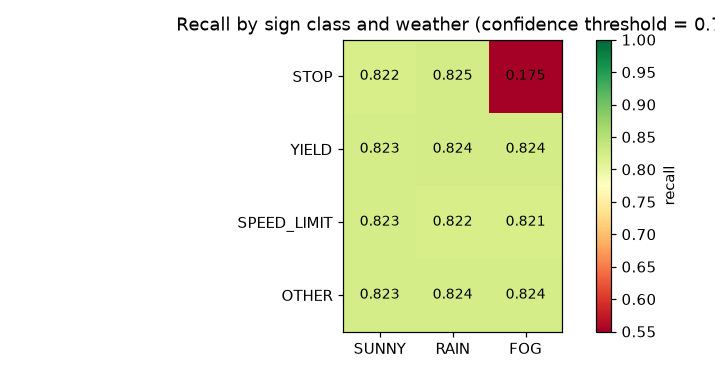
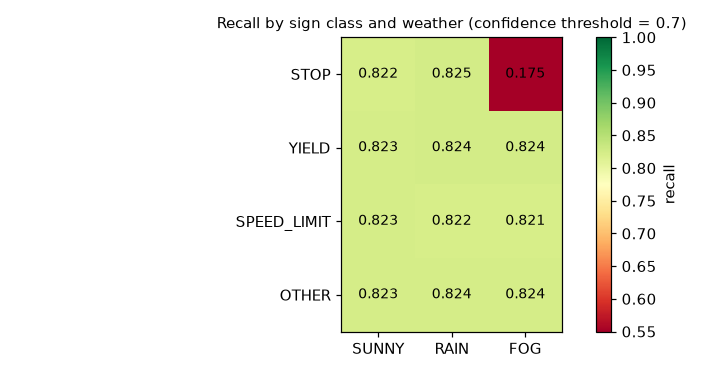
fix: SUM aggregates exported to SQLite as TEXT (HUGEINT -> VARCHAR)
DuckDB maps SUM(...) results (HUGEINT) to TEXT when writing to SQLite, so
tp/tn/fp/fn/critical_failures/poor_localizations came back as strings:
matplotlib rendered the critical-failures chart on a categorical axis (labels
0/1/2, uniform spacing) and Redash would sort the numbers lexicographically.
Fixed with CAST(SUM(...) AS BIGINT) in the duckdb_bridge SQL.

- regression test: duckdb_bridge on a tiny parquet asserts BIGINT in SQLite
  pragma, Int64 in polars, and correct aggregate values
- notebook + figures rebuilt on the fixed report (fig 01 title no longer
  clipped either)

diff --git a/tests/test_reporting.py b/tests/test_reporting.py
@@ -1,0 +1,83 @@
+"""Regression tests for the DuckDB -> SQLite BI bridge (`reporting.py`).
+
+The bug this guards against: plain `SUM(...)` in DuckDB returns HUGEINT, which the
+SQLite exporter maps to TEXT. Consumers (Redash, notebook) then saw strings —
+matplotlib even turned the bar chart into uniform categorical steps.
+"""
+
+from __future__ import annotations
+
+import sqlite3
+from pathlib import Path
+
+import polars as pl
+import pytest
+from dagster import build_asset_context
+
+from av_portfolio.assets import reporting
+
+FLAG_COLUMNS = (
+    "is_true_positive",
+    "is_true_negative",
+    "is_false_positive",
+    "is_false_negative",
+    "is_critical_failure",
+    "is_poor_localization",
+)
+INT_COLUMNS = ("tp", "tn", "fp", "fn", "critical_failures", "poor_localizations")
+
+
+def _sample_results() -> pl.DataFrame:
+    return pl.DataFrame(
+        {
+            "frame_id": list(range(1, 9)),
+            "actual_class": [1, 1, 2, 2, 3, 3, 0, 0],
+            "predicted_class": [1, 0, 2, 2, 0, 3, 0, 1],
+            "confidence": [0.9, 0.5, 0.8, 0.9, 0.4, 0.95, 0.9, 0.6],
+            "bbox_iou": [0.9, 0.3, 0.8, 0.85, 0.4, 0.9, 0.95, 0.2],
+            "weather": [0, 0, 1, 1, 2, 2, 0, 2],
+            "is_true_positive": [1, 0, 1, 1, 0, 1, 1, 0],
+            "is_true_negative": [0, 0, 0, 0, 0, 0, 0, 0],
+            "is_false_positive": [0, 0, 0, 0, 0, 0, 0, 1],
+            "is_false_negative": [0, 1, 0, 0, 1, 0, 0, 0],
+            "is_critical_failure": [0, 0, 0, 0, 1, 0, 0, 0],
+            "is_poor_localization": [0, 1, 0, 0, 0, 0, 0, 0],
+        },
+        schema_overrides={column: pl.Int8 for column in FLAG_COLUMNS},
+    )
+
+
+def test_duckdb_bridge_keeps_aggregates_numeric_in_sqlite(
+    tmp_path: Path, monkeypatch: pytest.MonkeyPatch
+) -> None:
+    parquet_path = tmp_path / "results.parquet"
+    sqlite_path = tmp_path / "report.sqlite"
+    source = _sample_results()
+    source.write_parquet(parquet_path)
+
+    monkeypatch.setattr(reporting, "SQLITE_FILE", sqlite_path)
+    reporting.duckdb_bridge(build_asset_context(), export_parquet=str(parquet_path))
+
+    con = sqlite3.connect(sqlite_path)
+    declared = dict(
+        con.execute("SELECT name, type FROM pragma_table_info('kpi_report')").fetchall()
+    )
+    report = pl.read_database("SELECT * FROM kpi_report", con)
+    con.close()
+
+    # 1. SQLite must store the summed columns as integers, not TEXT.
+    for column in INT_COLUMNS:
+        assert declared[column] == "BIGINT", f"{column} stored as {declared[column]}"
+
+    # 2. Polars must read them back as integers.
+    for column in INT_COLUMNS:
+        assert report.schema[column] in (pl.Int32, pl.Int64), f"{column}: {report.schema[column]}"
+
+    # 3. The overall row aggregates the raw flags.
+    all_row = report.filter(pl.col("weather").is_null()).row(0, named=True)
+    assert all_row["total_frames"] == source.height
+    assert all_row["critical_failures"] == int(source["is_critical_failure"].sum())
+    assert all_row["tp"] == int(source["is_true_positive"].sum())
+
+    # 4. Per-weather rows are present (SUNNY/RAIN/FOG).
+    assert report.filter(pl.col("weather").is_not_null()).height == source["weather"].n_unique()

diff --git a/src/av_portfolio/assets/reporting.py b/src/av_portfolio/assets/reporting.py
@@ -33,6 +33,9 @@ def duckdb_bridge(context: AssetExecutionContext, export_parquet: str) -> None:
     conn.execute("INSTALL sqlite; LOAD sqlite;")
 
     # Agregacja per pogoda + wiersz zbiorczy; wartości NULL-safe (NULLIF).
+    # Uwaga: CAST(SUM(...) AS BIGINT) jest konieczny — DuckDB zwraca HUGEINT,
+    # który przy eksporcie do SQLite mapuje się na TEXT (Redash sortowałby
+    # liczby leksykograficznie, a wykresy w notebooku dostawały stringi).
     agg_query = f"""
         SELECT
             CASE
@@ -44,12 +47,12 @@ def duckdb_bridge(context: AssetExecutionContext, export_parquet: str) -> None:
             END AS weather_label,
             weather,
             COUNT(*) AS total_frames,
-            SUM(is_true_positive) AS tp,
-            SUM(is_true_negative) AS tn,
-            SUM(is_false_positive) AS fp,
-            SUM(is_false_negative) AS fn,
-            SUM(is_critical_failure) AS critical_failures,
-            SUM(is_poor_localization) AS poor_localizations,
+            CAST(SUM(is_true_positive) AS BIGINT) AS tp,
+            CAST(SUM(is_true_negative) AS BIGINT) AS tn,
+            CAST(SUM(is_false_positive) AS BIGINT) AS fp,
+            CAST(SUM(is_false_negative) AS BIGINT) AS fn,
+            CAST(SUM(is_critical_failure) AS BIGINT) AS critical_failures,
+            CAST(SUM(is_poor_localization) AS BIGINT) AS poor_localizations,
             ROUND(AVG(CASE WHEN is_true_positive = 1 THEN bbox_iou END), 4) AS avg_iou_tp,
             ROUND(
                 SUM(is_true_positive) / NULLIF(SUM(is_true_positive) + SUM(is_false_positive), 0),
